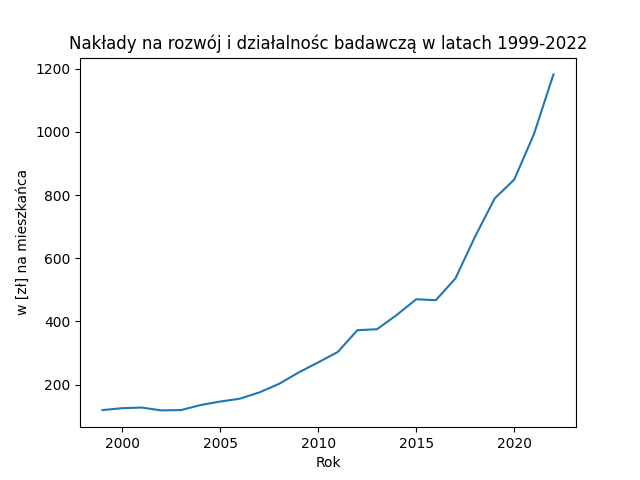
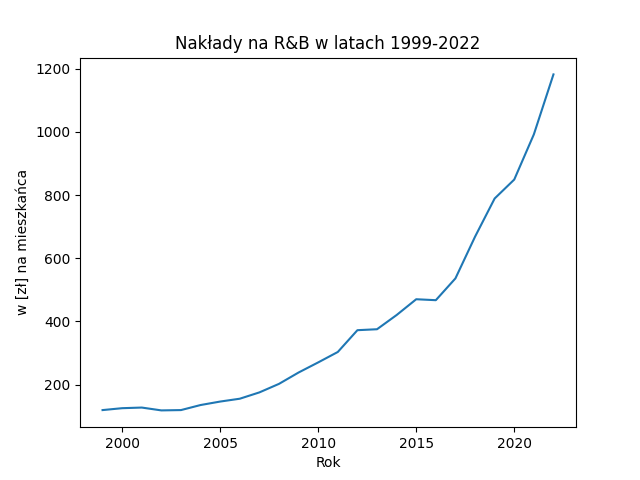
fixes

Changed region(s): [[0.0938, 0.0625, 0.9062, 0.125]]

diff --git a/PROJEKT-1/Problem_2_R&D_costs_vs_inflation.py b/PROJEKT-1/Problem_2_R&D_costs_vs_inflation.py
@@ -19,13 +19,13 @@ def save_path(name):
     return os.path.join(IMG_PATH, name)
 
 
-R&B per capita vs inflation
+# R&B per capita vs inflation
 
 per_capita = pd.read_csv(PER_CAPITA_PATH, delimiter=';')
 years = per_capita["year"].tolist()
 values = per_capita["value"].tolist()
 plt.plot(years, values)
-plt.title("Nakłady na rozwój i działalnośc badawczą w latach 1999-2022")
+plt.title("Nakłady na R&B w latach 1999-2022")
 plt.xlabel("Rok")
 plt.ylabel("w [zł] na mieszkańca")
 plt.savefig(save_path("nakłady_per_capita"))
